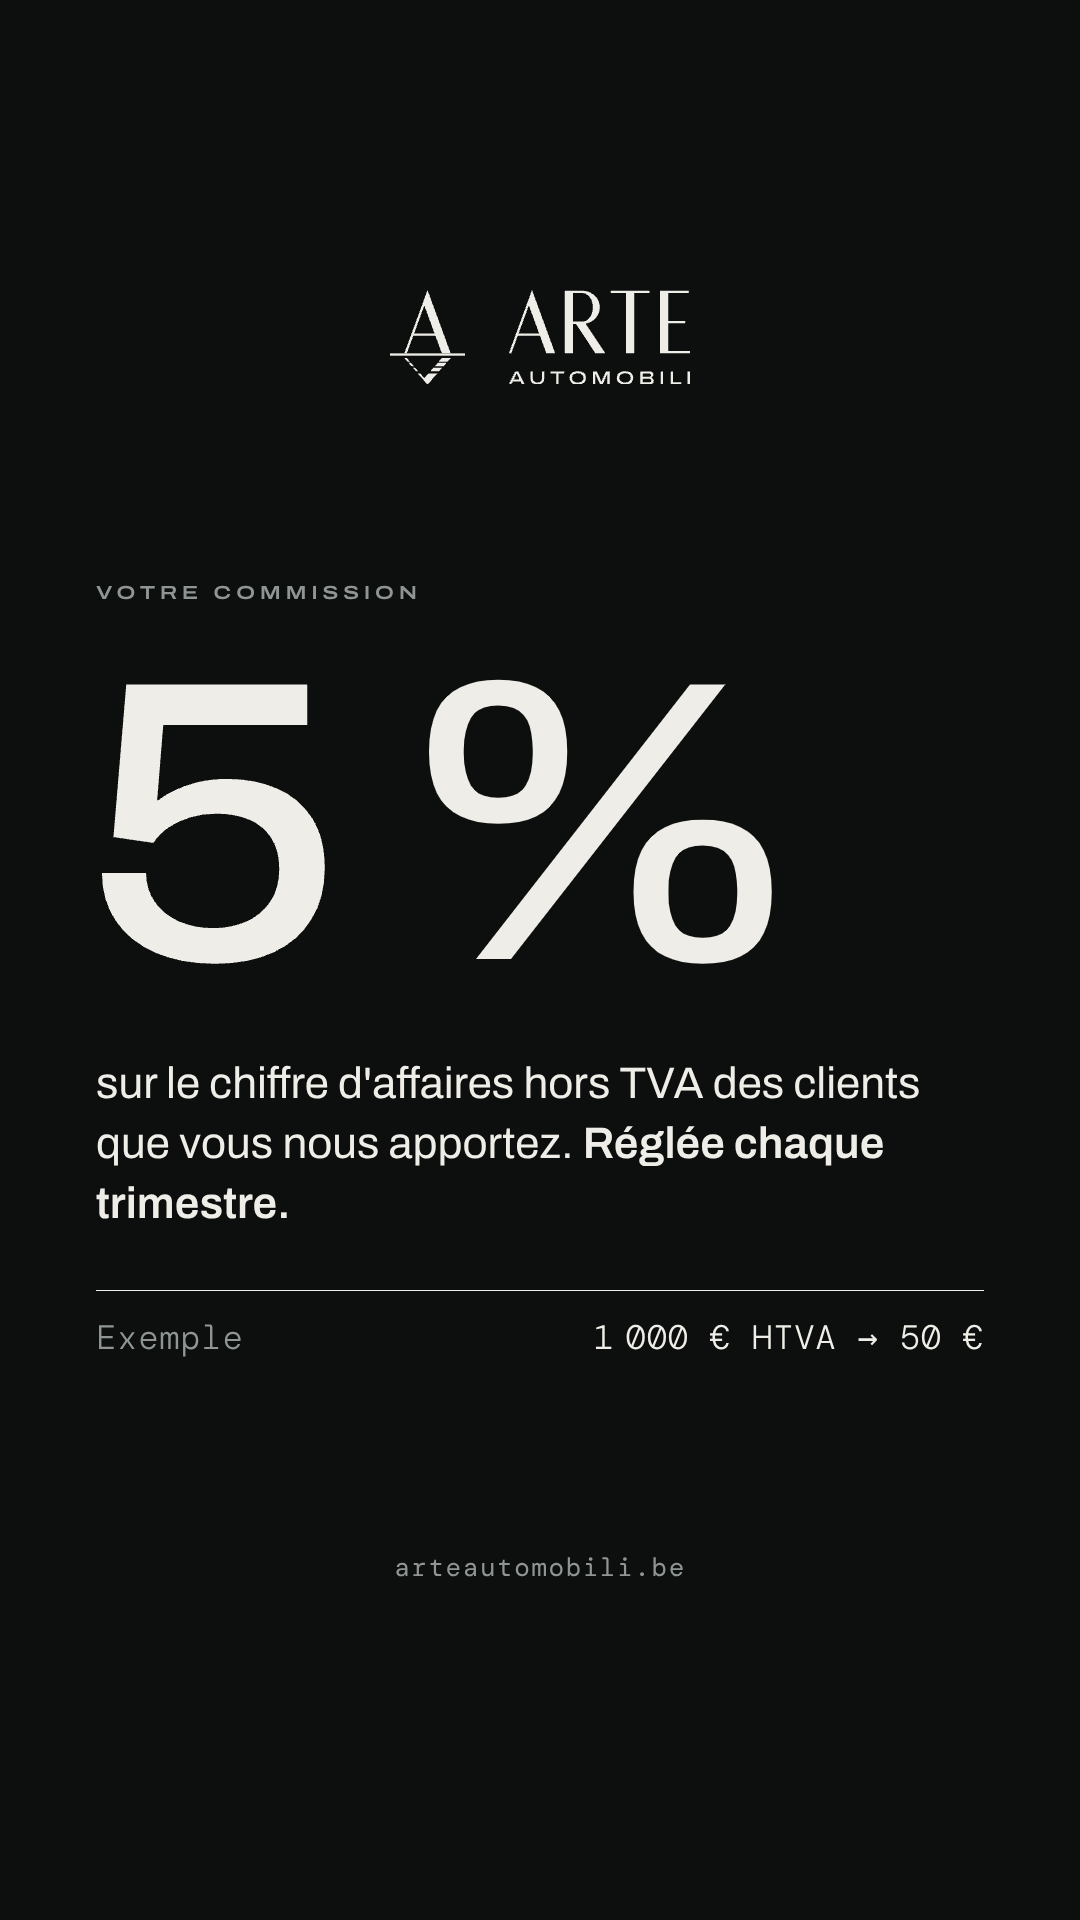
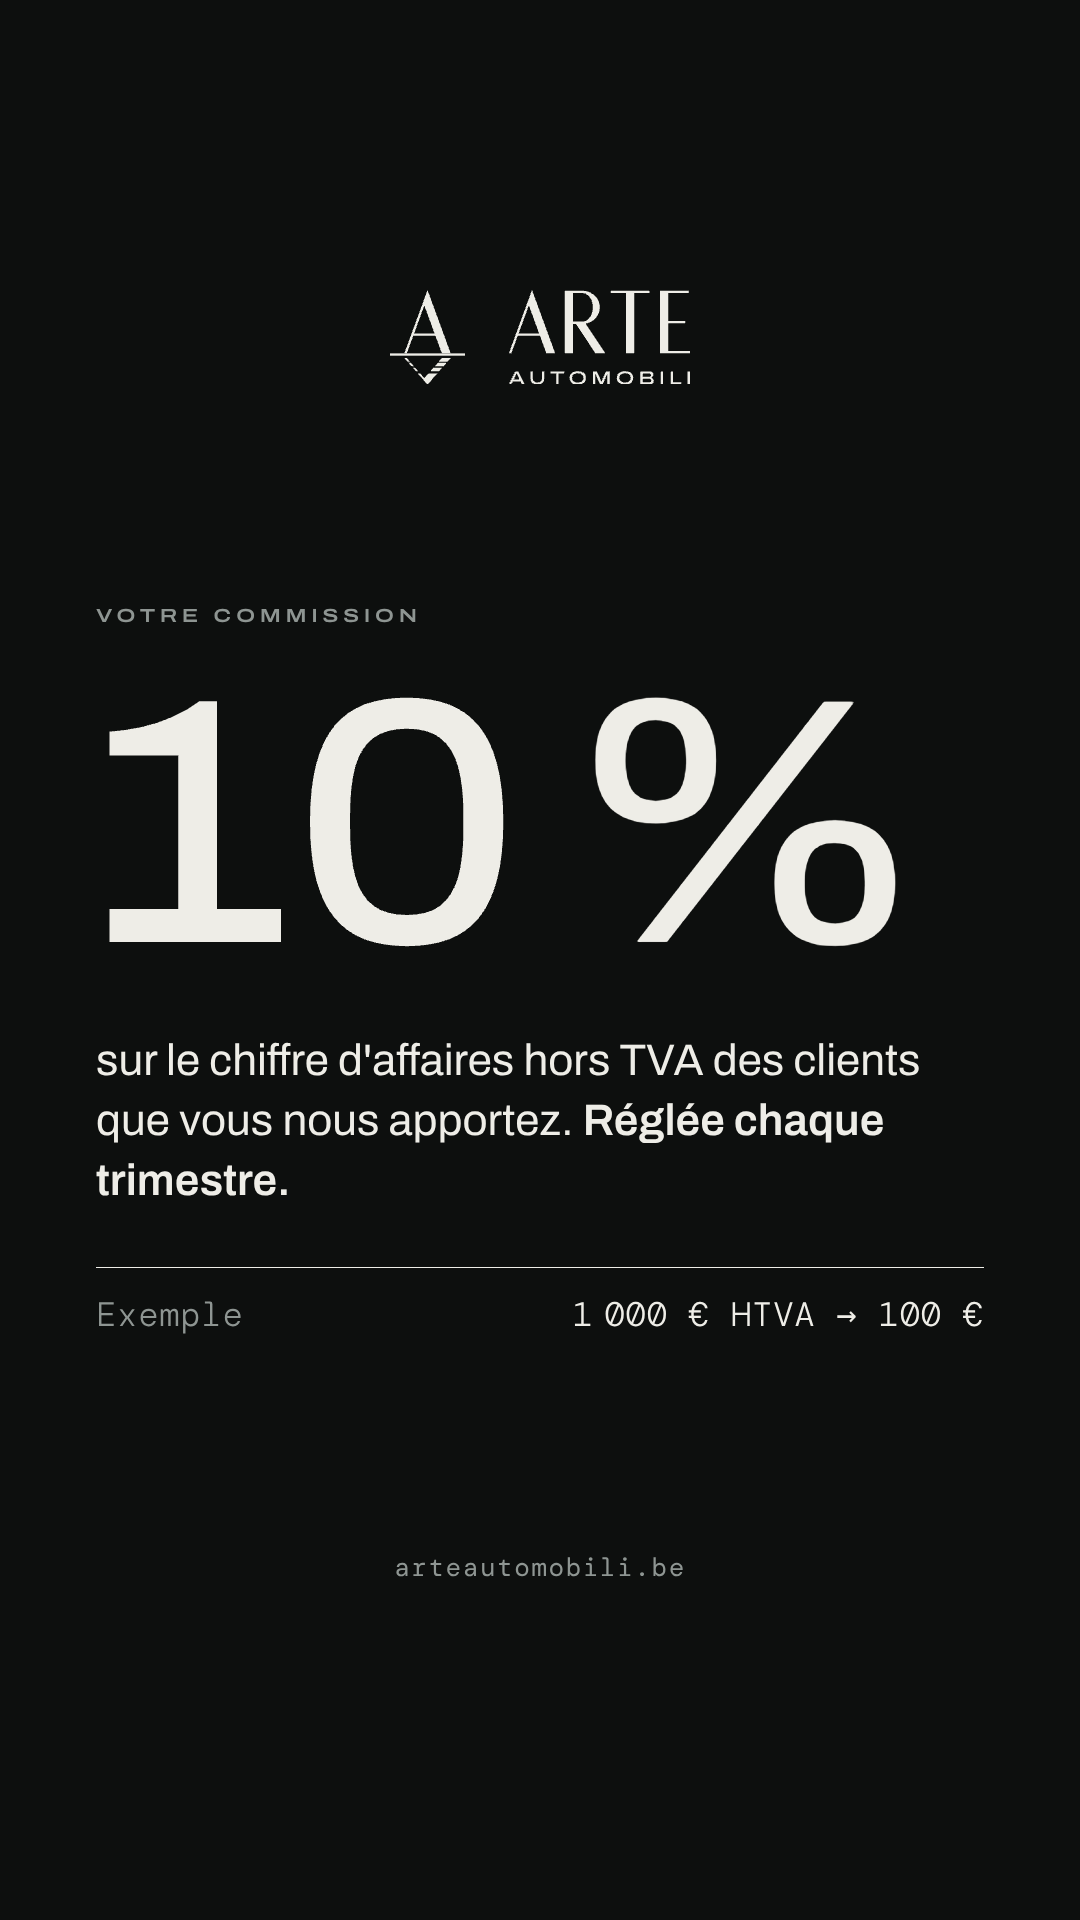
Raise the partner commission to 10%
The shared data file now holds a 10% commission. The partner stories
show it, with the example 1,000 EUR excl. VAT giving 100 EUR. The big
figure is set slightly smaller when it has two digits, so it stays
inside the margins.

Claude-Session: https://claude.ai/code/session_01M4iftK2mPXSePoswyiLXhc

diff --git a/arte-automobili/_source/reseaux/partenaires.py b/arte-automobili/_source/reseaux/partenaires.py
@@ -40,7 +40,7 @@ h1{{font:500 108px/1.05 Archivo,sans-serif;font-stretch:112%;letter-spacing:-.01
 h1 i,.chiffre i{{font-style:normal}}
 .texte{{margin-top:44px;font:400 44px/1.36 Archivo,sans-serif}}
 .texte strong{{font-weight:600}}
-.chiffre{{font:500 400px/.92 Archivo,sans-serif;font-stretch:112%;letter-spacing:-.03em;margin-left:-14px}}
+.chiffre{{font:500 {400 if len(PCT) < 2 else 350}px/.92 Archivo,sans-serif;font-stretch:112%;letter-spacing:-.03em;margin-left:-14px}}
 .exemple{{margin-top:56px;padding-top:30px;border-top:1.5px solid #EEEDE7;display:flex;justify-content:space-between;
          font:300 34px/1 'DM Mono',monospace;letter-spacing:.02em}}
 .exemple span:first-child{{color:#8E9592}}

diff --git a/arte-automobili/20_programme-partenaires/README.md b/arte-automobili/20_programme-partenaires/README.md
@@ -5,8 +5,8 @@ Quatre stories Instagram (1080 × 1920 px) à publier dans l'ordre, dans le styl
 | Story | Contenu |
 |---|---|
 | `story-partenaires-1-couverture.png` | « Recommandez. Gagnez. » Le programme d'affiliation réservé aux professionnels. |
-| `story-partenaires-2-commission.png` | 5 % sur le chiffre d'affaires hors TVA des clients apportés, réglée chaque trimestre. Exemple : 1 000 € HTVA → 50 €. |
-| `story-partenaires-3-fonctionnement.png` | En trois temps : vous recommandez, nous réalisons la prestation, vous touchez 5 % du montant hors TVA, chaque trimestre. |
+| `story-partenaires-2-commission.png` | 10 % sur le chiffre d'affaires hors TVA des clients apportés, réglée chaque trimestre. Exemple : 1 000 € HTVA → 100 €. |
+| `story-partenaires-3-fonctionnement.png` | En trois temps : vous recommandez, nous réalisons la prestation, vous touchez 10 % du montant hors TVA, chaque trimestre. |
 | `story-partenaires-4-contact.png` | « Devenez partenaire. » Pour plus d'informations : par e-mail ou par téléphone. |
 
 Le contenu évite les zones couvertes par l'interface d'Instagram (250 px en haut, 340 px en bas).
@@ -19,7 +19,7 @@ python3 _source/reseaux/partenaires.py
 
 ## À fixer avant de lancer le programme
 
-Les stories ne disent que ce que tu m'as donné : 5 % du chiffre d'affaires hors TVA apporté, réglés chaque trimestre. Avant les premières demandes, décide :
+Les stories ne disent que ce que tu m'as donné : 10 % du chiffre d'affaires hors TVA apporté, réglés chaque trimestre. Avant les premières demandes, décide :
 
 - **Comment un client est rattaché à un partenaire** : nom du partenaire donné à la réservation, code partenaire, lien dédié…
 - **La durée** : seulement la première prestation du client, ou toutes ses prestations pendant une période ?

diff --git a/arte-automobili/README.md b/arte-automobili/README.md
@@ -43,7 +43,7 @@ arte-automobili/
 ├── 17_tarifs/                 Grille tarifaire A4 (particuliers TVAC, professionnels HTVA)
 ├── 18_documents/              Devis, offres de prix, factures, listes de prix — voir son README
 ├── 19_carte-de-visite/        Carte de visite 85 × 55 mm (ton design), prête pour l'imprimeur
-├── 20_programme-partenaires/  Stories Instagram du programme d'affiliation pour les professionnels (5 %)
+├── 20_programme-partenaires/  Stories Instagram du programme d'affiliation pour les professionnels (10 %)
 └── _source/                   Scripts qui régénèrent l'ensemble
 ```
 
